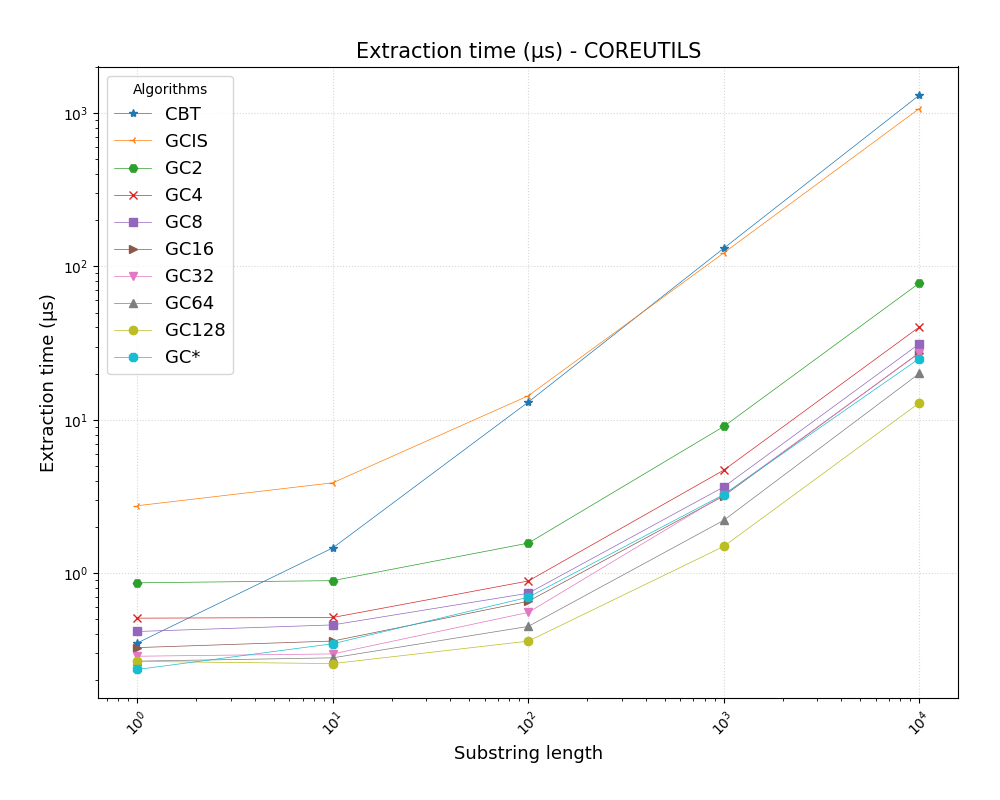
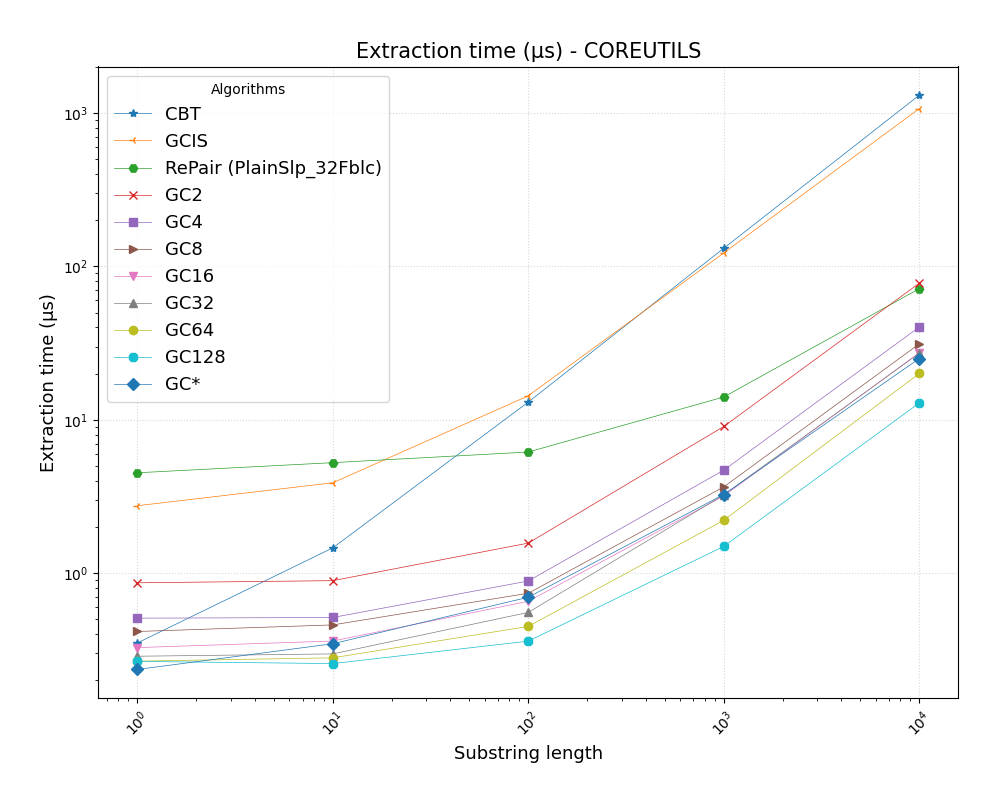
gera gráficos de extração para repair e padroniza nome do algortimo no relatório csv{

diff --git a/scripts/graphs/report.py b/scripts/graphs/report.py
@@ -84,10 +84,10 @@ def prepare_dataset(df: pd.DataFrame, operation: str):
     df = remove_and_log_incomplete_rows(df)
 
     df['algorithm'] = df['algorithm'].replace({
-        #'PlainSlp_32Fblc': 'RePair (PlainSlp_32Fblc)',
-        #'PlainSlp_FblcFblc': 'RePair (PlainSlp_FblcFblc)',
-        'REPAIR-PlainSlp_32Fblc': 'RePair (PlainSlp_32Fblc)',
-        'REPAIR-PlainSlp_FblcFblc': 'RePair (PlainSlp_FblcFblc)',
+        'PlainSlp_32Fblc': 'RePair (PlainSlp_32Fblc)',
+        'PlainSlp_FblcFblc': 'RePair (PlainSlp_FblcFblc)',
+        #'REPAIR-PlainSlp_32Fblc': 'RePair (PlainSlp_32Fblc)',
+        #'REPAIR-PlainSlp_FblcFblc': 'RePair (PlainSlp_FblcFblc)',
         'GCX-y8': 'GC*',
         'GCIS-ef': 'GCIS'
     })
